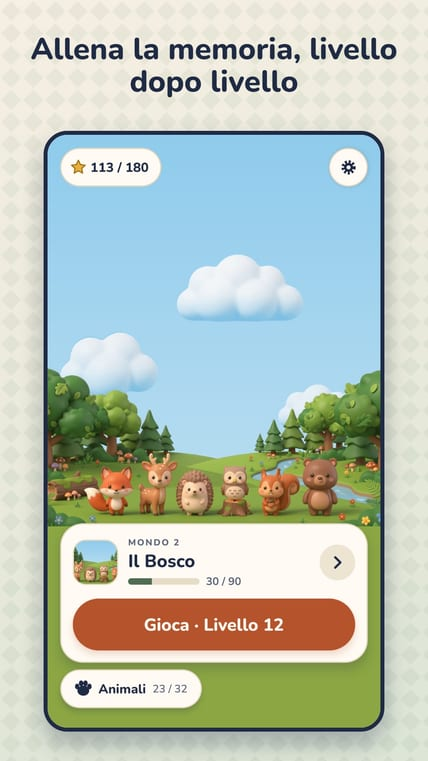
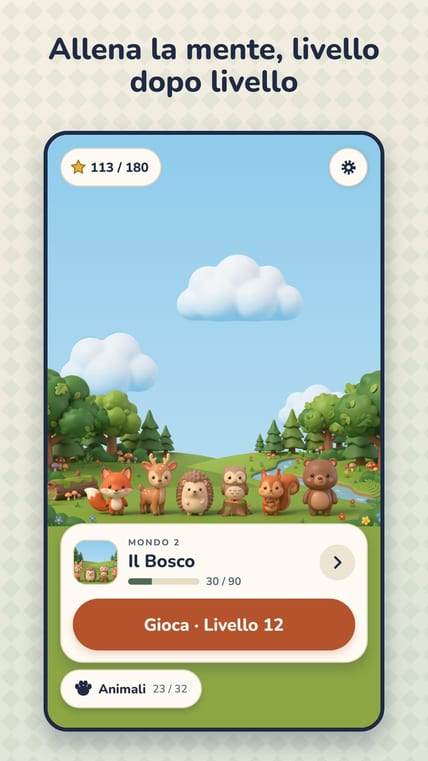
Farm Flip: il sito dice «allena la mente», con il primo screenshot aggiornato

Changed region(s): [[0.0607, 0.0302, 0.9416, 0.0907]]

diff --git a/farm-flip/index.html b/farm-flip/index.html
@@ -6,7 +6,7 @@
     <title>Farm Flip — relaxing memory game with farm and forest animals</title>
     <meta
       name="description"
-      content="Farm Flip is a relaxing memory game: find the pairs of farm and forest animals and train your memory at your own pace. This early version has no ads, no in-app purchases and collects no data."
+      content="Farm Flip is a relaxing memory game: find the pairs of farm and forest animals and train your brain at your own pace. This early version has no ads, no in-app purchases and collects no data."
     />
     <meta property="og:type" content="website" />
     <meta
@@ -15,7 +15,7 @@
     />
     <meta
       property="og:description"
-      content="Flip the cards, find the pairs and train your memory at your own pace."
+      content="Flip the cards, find the pairs and train your brain at your own pace."
     />
     <meta
       property="og:image"
@@ -46,7 +46,7 @@
         <h1>A relaxing memory game with farm and forest animals</h1>
         <p>
           Flip the cards, find the pairs and hear each animal's real call. Farm Flip is a calm game
-          to train your memory at your own pace: short rounds, no rush.
+          to train your brain at your own pace: short rounds, no rush.
         </p>
         <ul>
           <li>
@@ -81,7 +81,7 @@
         <h1>Un memory rilassante con gli animali della fattoria e del bosco</h1>
         <p>
           Gira le carte, trova le coppie e ascolta il verso vero di ogni animale. Farm Flip è un
-          gioco tranquillo per allenare la memoria con i tuoi tempi: partite brevi, nessuna fretta.
+          gioco tranquillo per allenare la mente con i tuoi tempi: partite brevi, nessuna fretta.
         </p>
         <ul>
           <li>
@@ -122,7 +122,7 @@
         <h1>Un memory relaxant avec les animaux de la ferme et de la forêt</h1>
         <p>
           Retournez les cartes, trouvez les paires et écoutez le vrai cri de chaque animal. Farm
-          Flip est un jeu calme pour entraîner votre mémoire à votre rythme : des parties courtes,
+          Flip est un jeu calme pour entraîner votre cerveau à votre rythme : des parties courtes,
           sans pression.
         </p>
         <ul>
@@ -167,7 +167,7 @@
         <h1>Un juego de memoria relajante con animales de la granja y del bosque</h1>
         <p>
           Da la vuelta a las cartas, encuentra los pares y escucha el sonido real de cada animal.
-          Farm Flip es un juego tranquilo para entrenar la memoria a tu ritmo: partidas cortas, sin
+          Farm Flip es un juego tranquilo para entrenar el cerebro a tu ritmo: partidas cortas, sin
           prisa.
         </p>
         <ul>
@@ -209,7 +209,7 @@
         <h1>Um jogo da memória relaxante com animais da fazenda e da floresta</h1>
         <p>
           Vire as cartas, encontre os pares e ouça o som real de cada animal. O Farm Flip é um jogo
-          tranquilo para treinar a memória no seu ritmo: partidas curtas, sem pressa.
+          tranquilo para treinar o cérebro no seu ritmo: partidas curtas, sem pressa.
         </p>
         <ul>
           <li>

diff --git a/farm-flip/test/index.html b/farm-flip/test/index.html
@@ -12,7 +12,7 @@
     <meta property="og:title" content="Farm Flip — testers wanted" />
     <meta
       property="og:description"
-      content="A relaxing memory game to train your memory. Android · 14 days · 2 minutes to join."
+      content="A relaxing memory game to train your brain. Android · 14 days · 2 minutes to join."
     />
     <meta
       property="og:image"
